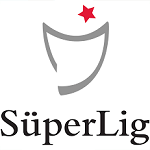
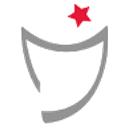
Clean transparent league badges (2026-10-16)

Changed region(s): [[0.0, 0.0312, 1.0, 0.9688]]

diff --git a/styles.css b/styles.css
@@ -26,6 +26,7 @@
   --grass-stripe: #EAF0E9;
   --pitch-line: rgb(11 116 68 / 0.18);
   --mauro-opacity: 0.17;
+  --logo-outline: none;
 
   --font-display: "Big Shoulders Display", "Arial Narrow", "Roboto Condensed", sans-serif;
   --font-body: "Barlow", "Segoe UI", system-ui, -apple-system, sans-serif;
@@ -58,6 +59,7 @@
     --grass-stripe: #0E1612;
     --pitch-line: rgb(255 255 255 / 0.08);
     --mauro-opacity: 0.1;
+    --logo-outline: drop-shadow(0 0 1px rgb(255 255 255 / 0.75));
     color-scheme: dark;
   }
 }
@@ -83,6 +85,7 @@
   --grass-stripe: #0E1612;
   --pitch-line: rgb(255 255 255 / 0.08);
   --mauro-opacity: 0.1;
+  --logo-outline: drop-shadow(0 0 1px rgb(255 255 255 / 0.75));
   color-scheme: dark;
 }
 
@@ -1281,19 +1284,16 @@ main { display: block; padding-block: 28px 72px; }
 
 .comp { display: inline-flex; align-items: center; gap: 8px; white-space: normal; }
 
-/* Logos sit on a small white chip so dark logos stay visible in dark mode. */
+/* Transparent league badges. In dark mode a thin light outline keeps black parts (the Europa trophy) visible. */
 .comp-logo {
   flex: none;
   display: grid;
   place-items: center;
   width: 24px;
   height: 24px;
-  border-radius: 6px;
-  background: #FFFFFF;
-  box-shadow: 0 0 0 1px var(--line);
 }
 
-.comp-logo img { width: 18px; height: 18px; object-fit: contain; }
+.comp-logo img { width: 24px; height: 24px; object-fit: contain; filter: var(--logo-outline); }
 
 .pm-stats-foot { margin: 6px 0 0; font-size: 12px; color: var(--muted); }
 

diff --git a/index.html b/index.html
@@ -15,7 +15,7 @@
 <link rel="preconnect" href="https://fonts.gstatic.com" crossorigin>
 <link rel="stylesheet" href="https://fonts.googleapis.com/css2?family=Barlow:wght@400;500;600;700&family=Big+Shoulders+Display:wght@700;800;900&display=swap">
 <link rel="stylesheet" href="https://fonts.googleapis.com/css2?family=Noto+Color+Emoji&display=swap">
-<link rel="stylesheet" href="styles.css?v=20261016005252">
+<link rel="stylesheet" href="styles.css?v=20261016005602">
 </head>
 <body>
 <header class="site-header">
@@ -48,10 +48,10 @@
 
 <dialog class="player-dialog" id="player" aria-labelledby="pm-name"></dialog>
 
-<script src="data.js?v=20261016005252"></script>
-<script src="photos.js?v=20261016005252"></script>
-<script src="stats.js?v=20261016005252"></script>
-<script src="app.js?v=20261016005252"></script>
+<script src="data.js?v=20261016005602"></script>
+<script src="photos.js?v=20261016005602"></script>
+<script src="stats.js?v=20261016005602"></script>
+<script src="app.js?v=20261016005602"></script>
 <!-- page:end -->
 </body>
 </html>
